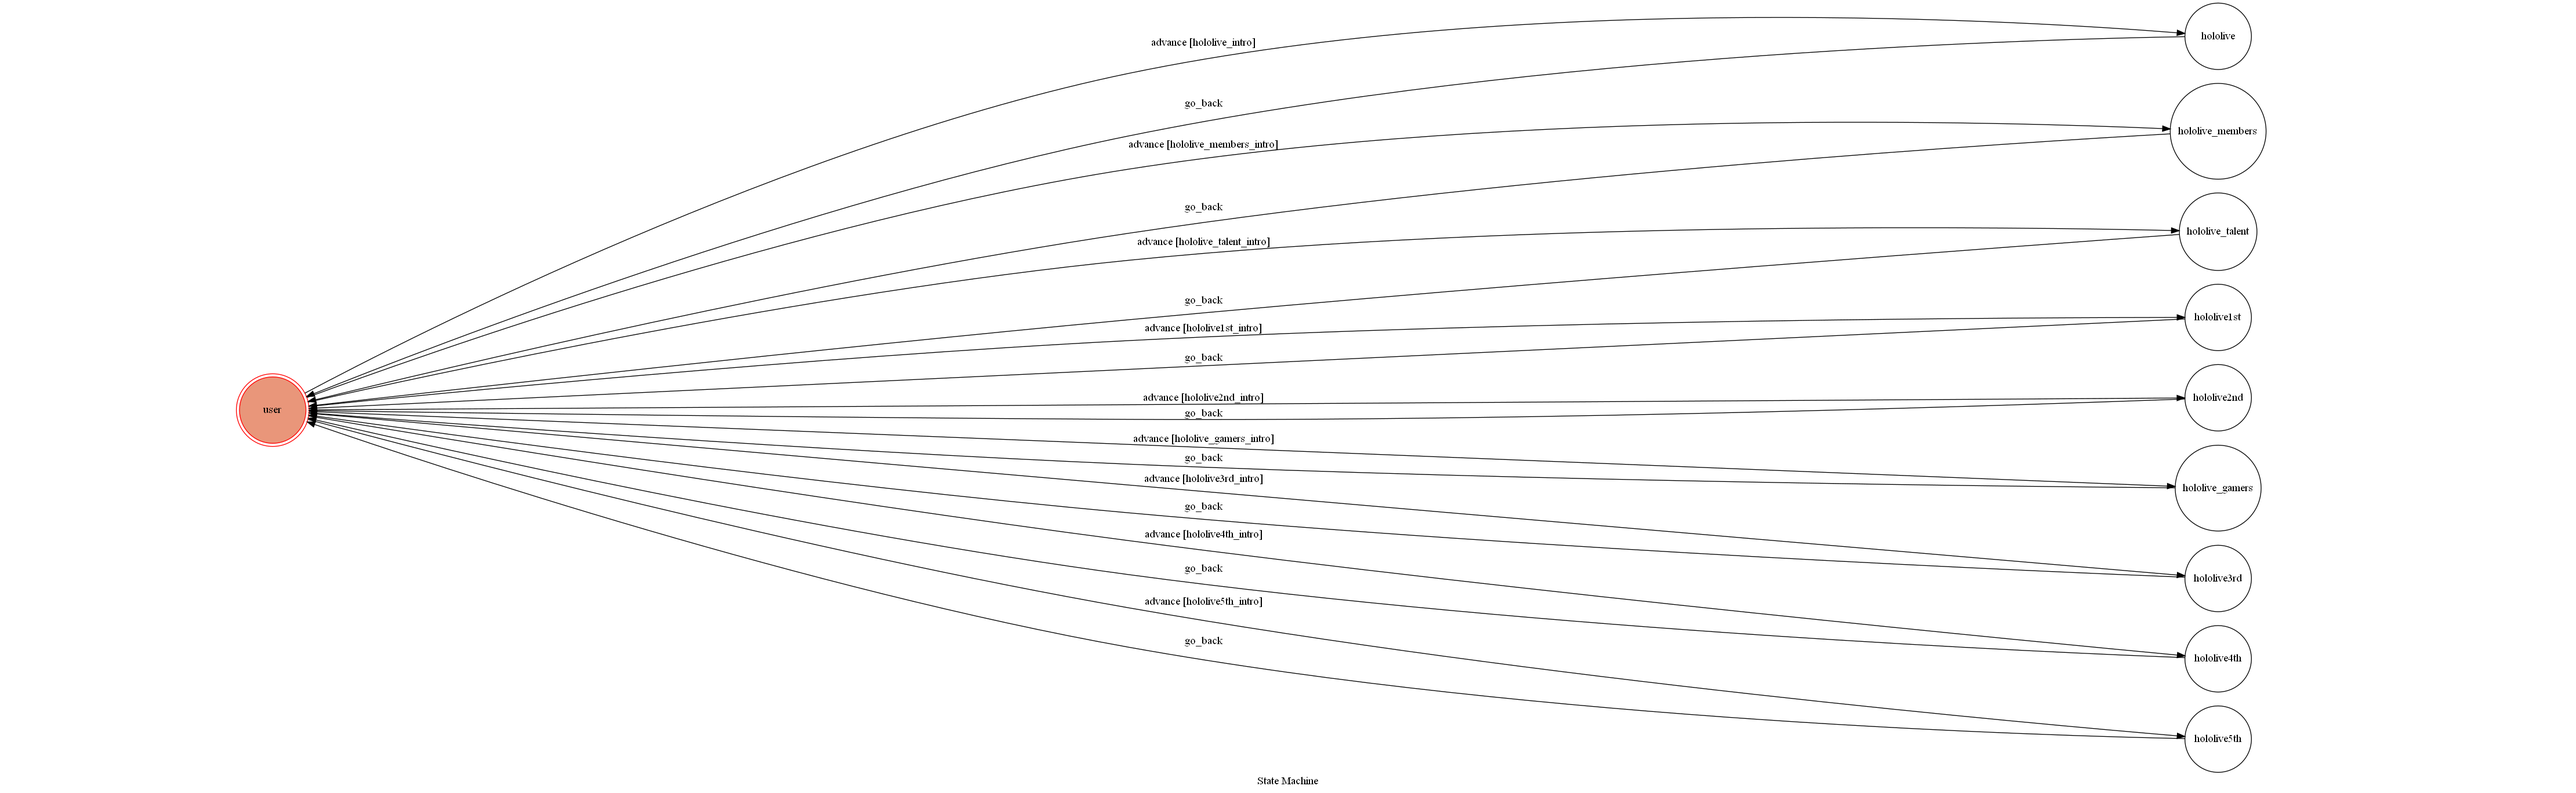
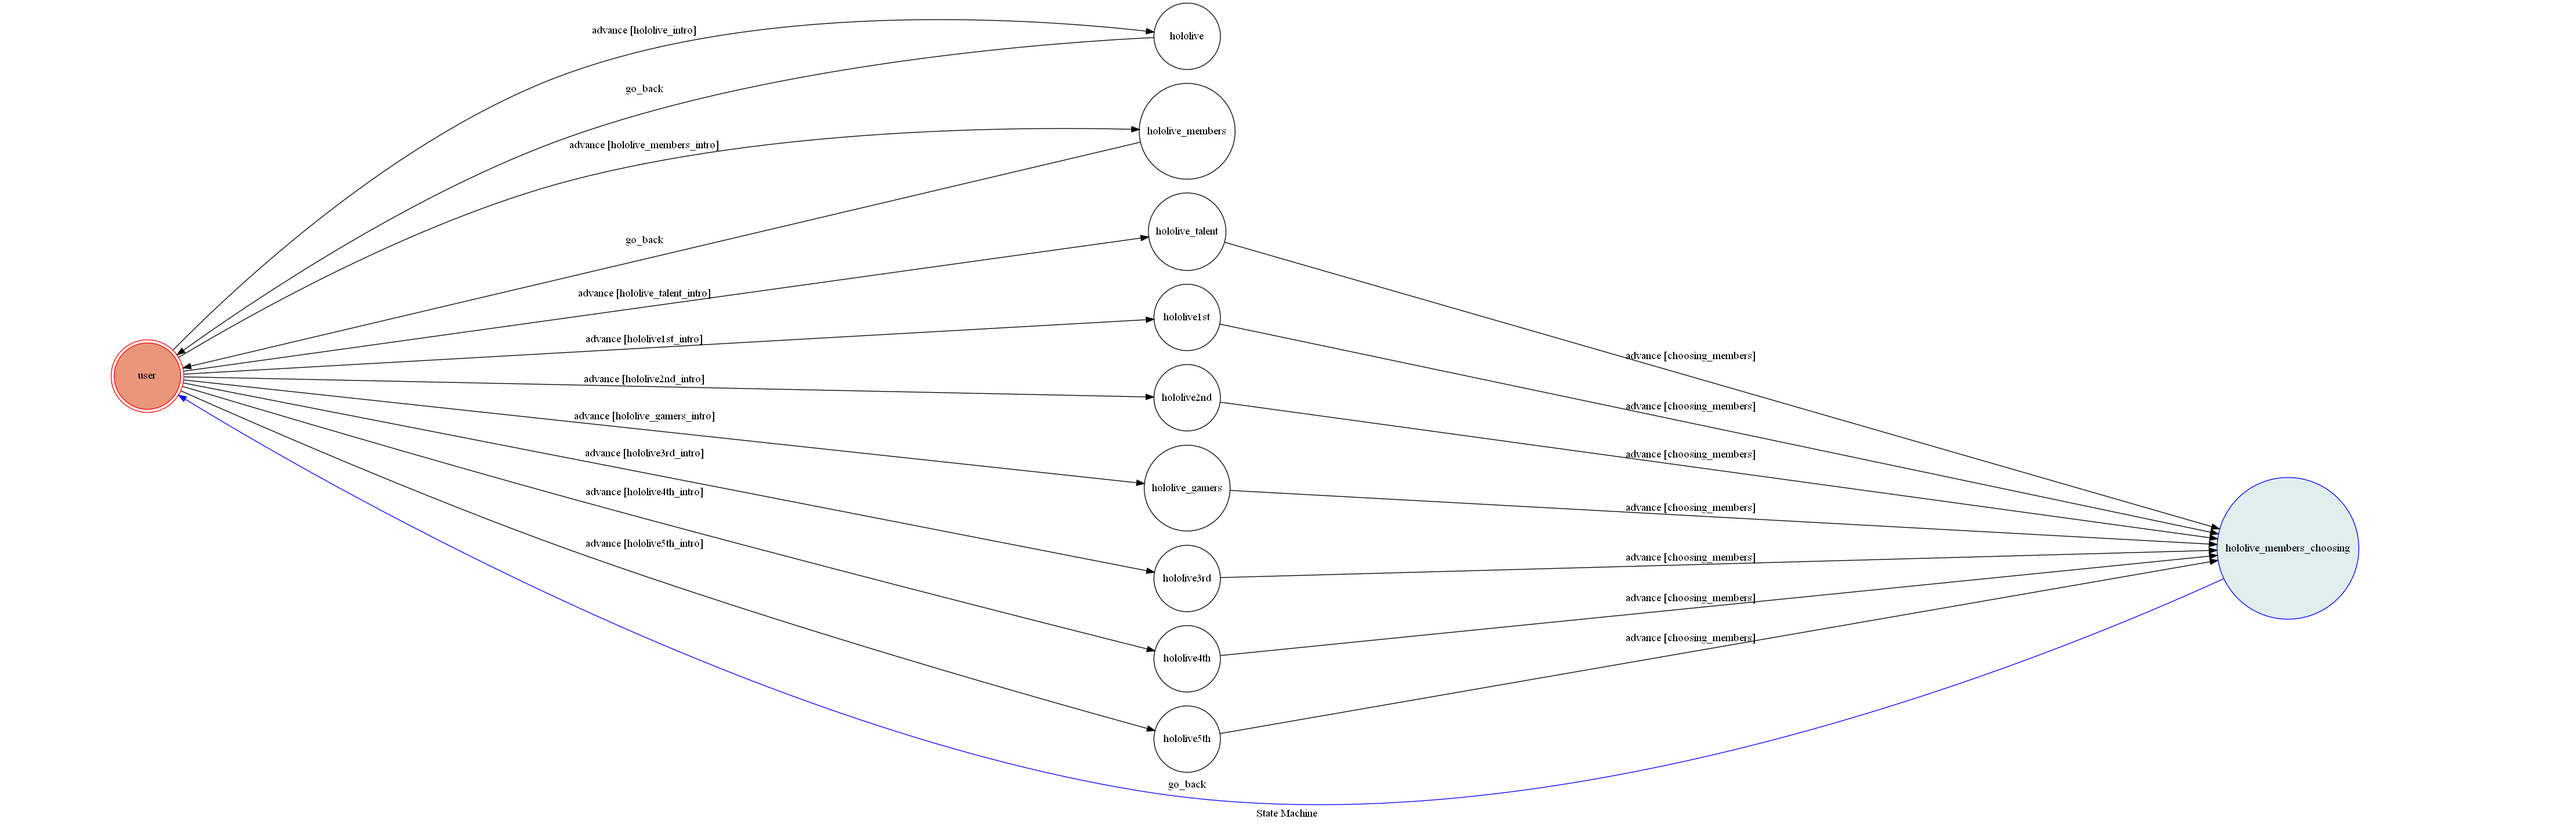
finish members' detailed intro

diff --git a/utils.py b/utils.py
@@ -718,3 +718,72 @@ def send_carousel_template_holo5th(reply_token):
     )
     line_bot_api.reply_message(reply_token, message)
     return 'OK'
+
+def send_members_message(reply_token, text):
+    line_bot_api = LineBotApi(channel_access_token)
+    if text == '時乃空簡介':
+        message = TextSendMessage("https://mzh.moegirl.org.cn/zh-tw/%E6%97%B6%E4%B9%83%E7%A9%BA")
+    elif text == '櫻巫女簡介':
+        message = TextSendMessage("https://mzh.moegirl.org.cn/zh-tw/%E6%A8%B1%E5%B7%AB%E5%A5%B3")
+    elif text == '星街彗星簡介':
+        message = TextSendMessage("https://mzh.moegirl.org.cn/zh-tw/%E6%98%9F%E8%A1%97%E5%BD%97%E6%98%9F")
+    elif text == '蘿蔔子簡介':
+        message = TextSendMessage("https://mzh.moegirl.org.cn/%E8%90%9D%E5%8D%9C%E5%AD%90")
+    elif text == '白上吹雪簡介':
+        message = TextSendMessage("https://mzh.moegirl.org.cn/%E7%99%BD%E4%B8%8A%E5%90%B9%E9%9B%AA")
+    elif text == '夏色祭簡介':
+        message = TextSendMessage("https://mzh.moegirl.org.cn/%E5%A4%8F%E8%89%B2%E7%A5%AD")
+    elif text == '赤井心簡介':
+        message = TextSendMessage("https://mzh.moegirl.org.cn/%E8%B5%A4%E4%BA%95%E5%BF%83")
+    elif text == '夜空梅露簡介':
+        message = TextSendMessage("https://mzh.moegirl.org.cn/%E5%A4%9C%E7%A9%BA%E6%A2%85%E9%9C%B2")
+    elif text == '亞綺．羅森塔爾簡介':
+        message = TextSendMessage("https://mzh.moegirl.org.cn/%E4%BA%9A%E7%BB%AE%C2%B7%E7%BD%97%E6%A3%AE%E5%A1%94%E5%B0%94")
+    elif text == '百鬼綾目簡介':
+        message = TextSendMessage("https://mzh.moegirl.org.cn/%E7%99%BE%E9%AC%BC%E7%BB%AB%E7%9B%AE")
+    elif text == '湊阿庫婭簡介':
+        message = TextSendMessage("https://mzh.moegirl.org.cn/%E5%87%91%E9%98%BF%E5%BA%93%E5%A8%85")
+    elif text == '紫咲詩音簡介':
+        message = TextSendMessage("https://mzh.moegirl.org.cn/%E7%B4%AB%E5%92%B2%E8%AF%97%E9%9F%B3")
+    elif text == '癒月巧可簡介':
+        message = TextSendMessage("https://mzh.moegirl.org.cn/%E6%84%88%E6%9C%88%E5%B7%A7%E5%8F%AF")
+    elif text == '大空昴簡介':
+        message = TextSendMessage("https://mzh.moegirl.org.cn/%E5%A4%A7%E7%A9%BA%E6%98%B4")
+    elif text == '貓又小粥簡介':
+        message = TextSendMessage("https://mzh.moegirl.org.cn/%E7%8C%AB%E5%8F%88%E5%B0%8F%E7%B2%A5")
+    elif text == '戌神沁音簡介':
+        message = TextSendMessage("https://mzh.moegirl.org.cn/%E6%88%8C%E7%A5%9E%E6%B2%81%E9%9F%B3")
+    elif text == '大神澪簡介':
+        message = TextSendMessage("https://mzh.moegirl.org.cn/%E5%A4%A7%E7%A5%9E%E6%BE%AA")
+    elif text == '兔田佩可拉簡介':
+        message = TextSendMessage("https://mzh.moegirl.org.cn/%E5%85%94%E7%94%B0%E4%BD%A9%E5%85%8B%E6%8B%89")
+    elif text == '寶鐘瑪琳簡介':
+        message = TextSendMessage("https://mzh.moegirl.org.cn/%E5%AE%9D%E9%92%9F%E7%8E%9B%E7%90%B3")
+    elif text == '潤羽露西亞簡介':
+        message = TextSendMessage("https://mzh.moegirl.org.cn/%E6%B6%A6%E7%BE%BD%E9%9C%B2%E8%A5%BF%E5%A8%85")
+    elif text == '白銀諾艾爾簡介':
+        message = TextSendMessage("https://mzh.moegirl.org.cn/%E7%99%BD%E9%93%B6%E8%AF%BA%E8%89%BE%E5%B0%94")
+    elif text == '不知火芙蕾雅簡介':
+        message = TextSendMessage("https://mzh.moegirl.org.cn/%E4%B8%8D%E7%9F%A5%E7%81%AB%E8%8A%99%E8%95%BE%E9%9B%85")
+    elif text == '角卷綿芽簡介':
+        message = TextSendMessage("https://mzh.moegirl.org.cn/%E8%A7%92%E5%8D%B7%E7%BB%B5%E8%8A%BD")
+    elif text == '桐生可可簡介':
+        message = TextSendMessage("https://mzh.moegirl.org.cn/%E6%A1%90%E7%94%9F%E5%8F%AF%E5%8F%AF")
+    elif text == '天音彼方簡介':
+        message = TextSendMessage("https://mzh.moegirl.org.cn/%E5%A4%A9%E9%9F%B3%E5%BD%BC%E6%96%B9")
+    elif text == '常闇永遠簡介':
+        message = TextSendMessage("https://mzh.moegirl.org.cn/%E5%B8%B8%E6%9A%97%E6%B0%B8%E8%BF%9C")
+    elif text == '姬森璐娜簡介':
+        message = TextSendMessage("https://mzh.moegirl.org.cn/%E5%A7%AC%E6%A3%AE%E7%92%90%E5%A8%9C")
+    elif text == '雪花菈米簡介':
+        message = TextSendMessage("https://mzh.moegirl.org.cn/%E9%9B%AA%E8%8A%B1%E8%8F%88%E7%B1%B3")
+    elif text == '獅白牡丹簡介':
+        message = TextSendMessage("https://mzh.moegirl.org.cn/%E7%8B%AE%E7%99%BD%E7%89%A1%E4%B8%B9")
+    elif text == '桃鈴音音簡介':
+        message = TextSendMessage("https://mzh.moegirl.org.cn/%E6%A1%83%E9%93%83%E9%9F%B3%E9%9F%B3")
+    elif text == '尾丸波爾卡簡介':
+        message = TextSendMessage("https://mzh.moegirl.org.cn/%E5%B0%BE%E4%B8%B8%E6%B3%A2%E5%B0%94%E5%8D%A1")
+    elif text == '魔乃阿蘿耶(卒業)簡介':
+        message = TextSendMessage("https://mzh.moegirl.org.cn/%E9%AD%94%E4%B9%83%E9%98%BF%E8%90%9D%E8%80%B6")
+    line_bot_api.reply_message(reply_token, message)
+    return 'OK'

diff --git a/fsm.py b/fsm.py
@@ -1,6 +1,6 @@
 from transitions.extensions import GraphMachine
 
-from utils import send_text_message, send_image_url, send_template_message_hololive, send_carousel_template_holo_talent, send_carousel_template_holo1st , send_carousel_template_holo2nd, send_carousel_template_holo_gamers, send_carousel_template_holo3rd, send_carousel_template_holo4th, send_carousel_template_holo5th
+from utils import send_text_message, send_image_url, send_template_message_hololive, send_carousel_template_holo_talent, send_carousel_template_holo1st , send_carousel_template_holo2nd, send_carousel_template_holo_gamers, send_carousel_template_holo3rd, send_carousel_template_holo4th, send_carousel_template_holo5th, send_members_message
 
 
 class TocMachine(GraphMachine):
@@ -43,21 +43,24 @@ class TocMachine(GraphMachine):
         text = event.message.text
         return text == "Hololive5th"
 
+    def choosing_members(self, event):
+        text = event.message.text
+        return text[-2:] == "簡介"
+
     def on_enter_hololive(self, event):
         print("I'm entering hololive_intro")
         reply_token = event.reply_token
         send_image_url(reply_token, "https://i.ibb.co/WG7cXHV/hololive.jpg")
         self.go_back()
 
-    def on_exit_hololive(self):
+    def on_exit_hololive(self, event):
         print("Leaving hololive_intro")
 
     def on_enter_hololive_members(self, event):
         print("I'm entering hololive_members_intro")
         reply_token = event.reply_token
         send_template_message_hololive(reply_token)
-        self.advance()
-        # self.go_back()
+        self.go_back(event)
 
     def on_exit_hololive_members(self, event):
         print("Leaving hololive_members_intro")
@@ -66,61 +69,71 @@ class TocMachine(GraphMachine):
         print("I'm entering hololivetalent")
         reply_token = event.reply_token
         send_carousel_template_holo_talent(reply_token)
-        self.go_back()
+        
     
-    def on_exit_hololive_talent(self):
+    def on_exit_hololive_talent(self, event):
         print("Leaving hololivetalent")
 
     def on_enter_hololive1st(self, event):
         print("I'm entering hololive1st")
         reply_token = event.reply_token
         send_carousel_template_holo1st(reply_token)
-        self.go_back()
+        
     
-    def on_exit_hololive1st(self):
+    def on_exit_hololive1st(self, event):
         print("Leaving hololive1st")
 
     def on_enter_hololive2nd(self, event):
         print("I'm entering hololive2nd")
         reply_token = event.reply_token
         send_carousel_template_holo2nd(reply_token)
-        self.go_back()
+        
     
-    def on_exit_hololive2nd(self):
+    def on_exit_hololive2nd(self, event):
         print("Leaving hololive2nd")
 
     def on_enter_hololive_gamers(self, event):
         print("I'm entering hololivegamers")
         reply_token = event.reply_token
         send_carousel_template_holo_gamers(reply_token)
-        self.go_back()
+        self.advance()
     
-    def on_exit_hololive_gamers(self):
+    def on_exit_hololive_gamers(self, event):
         print("Leaving hololivegamers")
 
     def on_enter_hololive3rd(self, event):
         print("I'm entering hololive3rd")
         reply_token = event.reply_token
         send_carousel_template_holo3rd(reply_token)
-        self.go_back()
+        
 
-    def on_exit_hololive3rd(self):
+    def on_exit_hololive3rd(self, event):
         print("Leaving hololive3rd")
 
     def on_enter_hololive4th(self, event):
         print("I'm entering hololive4th")
         reply_token = event.reply_token
         send_carousel_template_holo4th(reply_token)
-        self.go_back()
+        
 
-    def on_exit_hololive4th(self):
+    def on_exit_hololive4th(self, event):
         print("Leaving hololive4th")
 
     def on_enter_hololive5th(self, event):
         print("I'm entering hololive5th")
         reply_token = event.reply_token
         send_carousel_template_holo5th(reply_token)
-        self.go_back()
+        
 
-    def on_exit_hololive5th(self):
+    def on_exit_hololive5th(self, event):
         print("Leaving hololive5th")
+
+    def on_enter_hololive_members_choosing(self, event):
+        print("I'm entering hololive_members_choosing")
+        reply_token = event.reply_token
+        text = event.message.text
+        send_members_message(reply_token, text)
+        self.go_back(event)
+
+    def on_exit_hololive_members_choosing(self, event):
+        print("Leaving hololive_members_choosing")

diff --git a/app.py b/app.py
@@ -14,7 +14,7 @@ from utils import send_text_message
 load_dotenv()
 
 machine = TocMachine(
-    states=["user", "hololive", "hololive_members", "hololive_talent", "hololive1st", "hololive2nd", "hololive_gamers","hololive3rd", "hololive4th", "hololive5th"],
+    states=["user", "hololive", "hololive_members", "hololive_talent", "hololive1st", "hololive2nd", "hololive_gamers","hololive3rd", "hololive4th", "hololive5th", "hololive_members_choosing"],
     transitions=[
         {
             "trigger": "advance",
@@ -71,8 +71,14 @@ machine = TocMachine(
             "conditions": "hololive5th_intro",
         },
         {
+            "trigger": "advance",
+            "source": ["hololive_talent", "hololive1st", "hololive2nd", "hololive_gamers", "hololive3rd", "hololive4th", "hololive5th"],
+            "dest": "hololive_members_choosing",
+            "conditions": "choosing_members",
+        },
+        {
             "trigger": "go_back", 
-            "source": ["hololive", "hololive_members", "hololive_talent", "hololive1st", "hololive_gamers", "hololive2nd","hololive3rd", "hololive4th", "hololive5th"], 
+            "source": ["hololive", "hololive_members",  "hololive_members_choosing"], 
             "dest": "user"
         },
     ],
@@ -146,11 +152,12 @@ def webhook_handler():
             continue
         if not isinstance(event.message.text, str):
             continue
-        print(f"\nFSM STATE: {machine.state}")
+        
         print(f"REQUEST BODY: \n{body}")
         response = machine.advance(event)
         if response == False:
             send_text_message(event.reply_token, "Not Entering any State")
+        print(f"\nFSM STATE: {machine.state}")
 
     return "OK"
 
